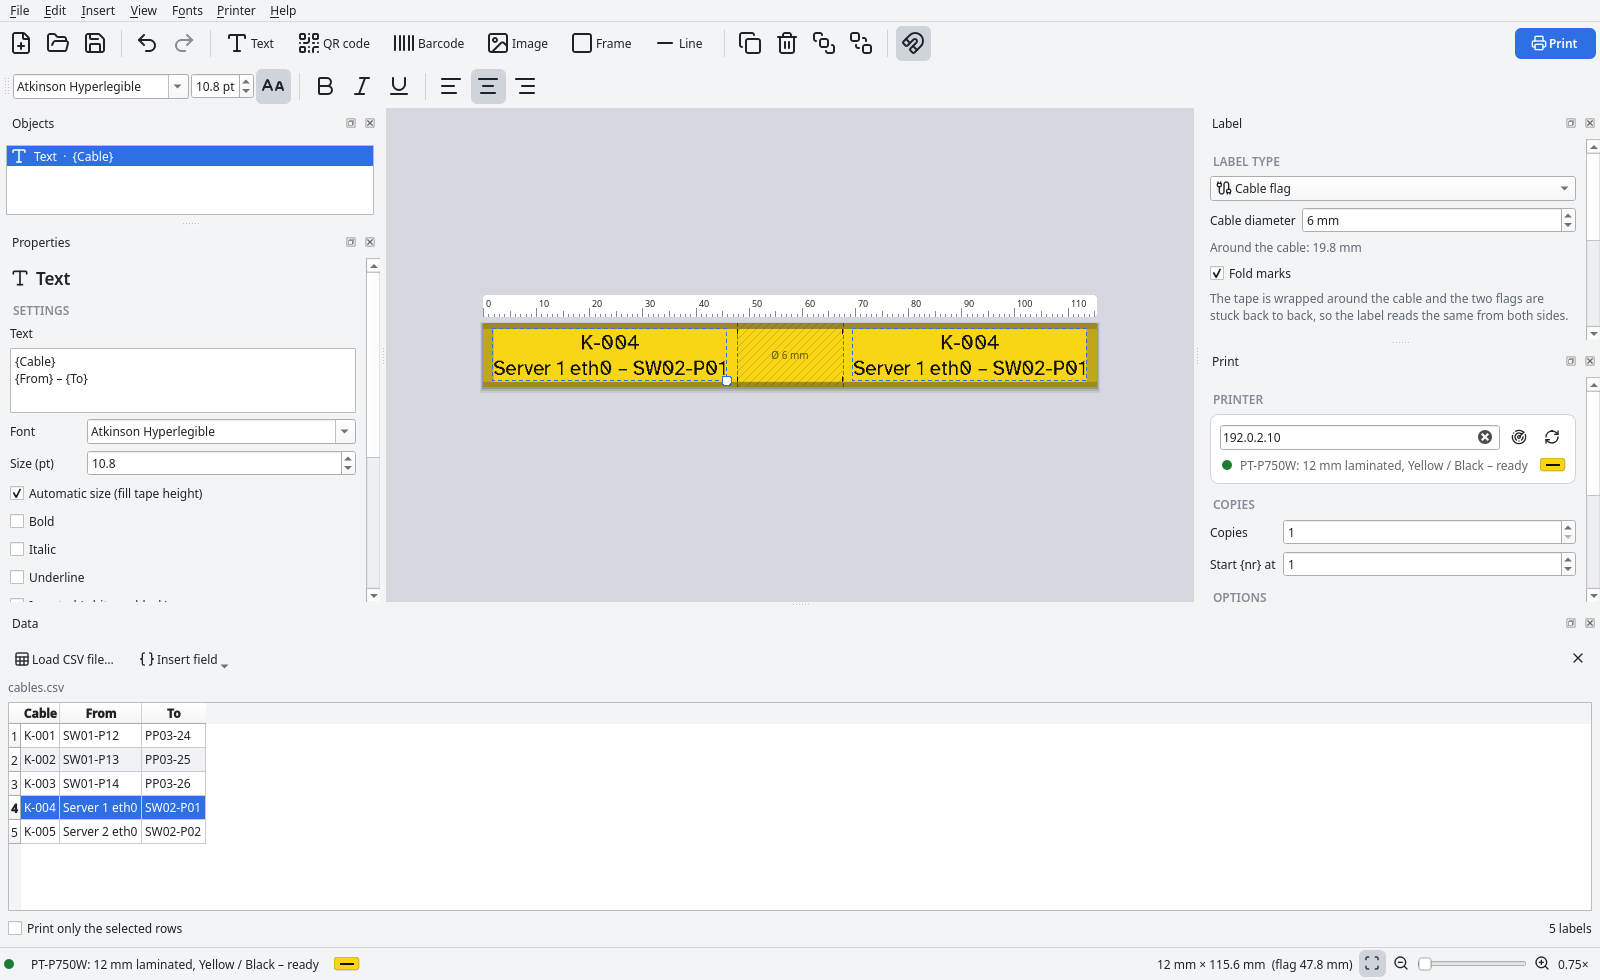
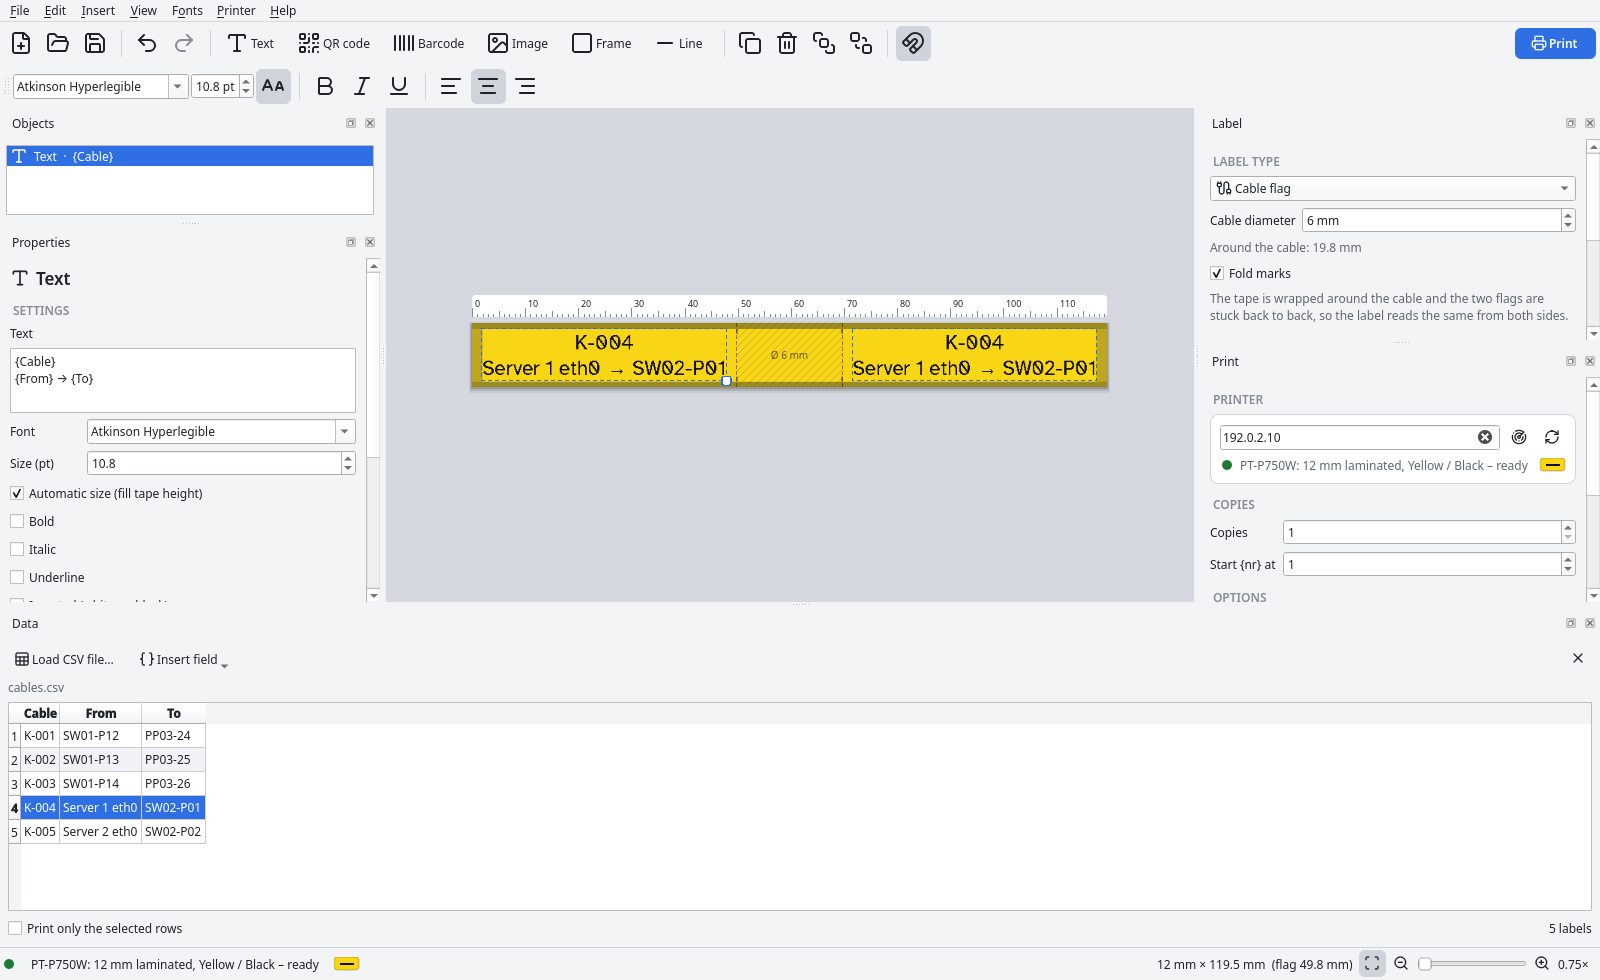
Fallback fonts for characters missing in the chosen font
Text is drawn run by run: characters without a glyph in the chosen font come
from the first installed font that has them (wide-coverage fonts first, color
emoji excluded), in the same weight, on the same baseline. Glyph checks and the
fallback choice are cached and reset when fonts are added. A warning names
characters that no installed font can draw.

Changed region(s): [[0.2812, 0.3061, 0.7188, 0.398], [0.0312, 0.3673, 0.0625, 0.398]]

diff --git a/src/ptlabel/fallback.py b/src/ptlabel/fallback.py
@@ -1,0 +1,122 @@
+"""Fallback fonts for characters that the chosen font does not contain.
+
+Text is split into runs: every character uses the chosen font if it has a glyph for it, otherwise
+the first font with a glyph – preferring fonts with a large character set – so that arrows, check
+marks, Greek or CJK characters print instead of empty boxes.
+"""
+
+from __future__ import annotations
+
+import threading
+import unicodedata
+from functools import lru_cache
+
+from PIL import ImageFont
+
+from . import fonts
+from .fonts import Face
+
+PROBE_PX = 32
+MISSING = "\U0010FFFF"  # never mapped: renders the font's "missing glyph" shape
+# Fonts with a large character set are tried first, in this order, then all others.
+PREFERRED = ["DejaVu Sans", "Noto Sans", "Liberation Sans", "Arial", "Segoe UI", "Cantarell", "Ubuntu",
+             "Noto Sans Math", "Noto Sans Symbols", "Noto Sans Symbols 2", "Segoe UI Symbol", "Symbola",
+             "FreeSans", "FreeSerif", "Arial Unicode MS", "Droid Sans Fallback", "Noto Sans CJK JP",
+             "Microsoft YaHei", "MS Gothic"]
+EXCLUDED = ("Color Emoji",)  # colored glyphs do not print in one color
+
+
+def _shape(font: ImageFont.FreeTypeFont, char: str) -> tuple:
+    mask = font.getmask(char)
+    return mask.size, bytes(mask)
+
+
+@lru_cache(maxsize=None)
+def _missing_shape(path: str, index: int) -> tuple | None:
+    try:
+        return _shape(fonts.load_face(Face(path, index, "", ""), PROBE_PX), MISSING)
+    except Exception:
+        return None
+
+
+@lru_cache(maxsize=65536)
+def _has_glyph(path: str, index: int, char: str) -> bool:
+    missing = _missing_shape(path, index)
+    if missing is None:
+        return False
+    try:
+        return _shape(fonts.load_face(Face(path, index, "", ""), PROBE_PX), char) != missing
+    except Exception:
+        return False
+
+
+def has_glyph(face: Face, char: str) -> bool:
+    if char.isspace() or unicodedata.category(char) in ("Cc", "Cf"):
+        return True  # nothing to draw
+    return _has_glyph(face.path, face.index, char)
+
+
+class FallbackFinder:
+    """Finds, and remembers per character, the first font family that has a glyph."""
+
+    def __init__(self, registry: fonts.FontRegistry):
+        self.registry = registry
+        self._lock = threading.Lock()
+        self._generation = -1
+        self._families: dict[str, str | None] = {}
+
+    def _candidates(self) -> list[str]:
+        names = self.registry.families(include_all=True)
+        names = [n for n in names if not any(word in n for word in EXCLUDED)]
+        preferred = [p for p in PREFERRED if p in names]
+        return preferred + [n for n in names if n not in preferred]
+
+    def family_for(self, char: str) -> str | None:
+        with self._lock:
+            if self._generation != self.registry.generation:
+                self._families, self._generation = {}, self.registry.generation
+            if char not in self._families:
+                self._families[char] = next(
+                    (name for name in self._candidates()
+                     if has_glyph(self.registry.resolve(name, False, False), char)), None)
+            return self._families[char]
+
+    def face_for(self, char: str, bold: bool, italic: bool) -> Face | None:
+        family = self.family_for(char)
+        if family is None:
+            return None
+        face = self.registry.resolve(family, bold, italic)
+        return face if face is not None and has_glyph(face, char) else self.registry.resolve(family, False, False)
+
+
+FINDER = FallbackFinder(fonts.REGISTRY)
+
+
+def runs(text: str, family: str, size_px: int, bold: bool = False, italic: bool = False):
+    """[(font, needs_faux_bold, text), …] that together draw ``text``."""
+    primary = fonts.REGISTRY.resolve(family, bold, italic)
+    if primary is None:  # no fonts installed at all
+        font, faux = fonts.get_font(family, size_px, bold, italic)
+        return [(font, faux, text)]
+    result: list[list] = []
+    for char in text:
+        face = primary
+        if not has_glyph(primary, char):
+            face = FINDER.face_for(char, bold, italic) or primary  # nothing has it: keep the box
+        if result and result[-1][0] == face:
+            result[-1][1] += char
+        else:
+            result.append([face, char])
+    return [(fonts.load_face(face, size_px), bold and not face.is_bold, chunk) for face, chunk in result]
+
+
+def missing(text: str, family: str, bold: bool = False, italic: bool = False) -> list[str]:
+    """Characters of ``text`` that no installed font can draw."""
+    primary = fonts.REGISTRY.resolve(family, bold, italic)
+    if primary is None:
+        return []
+    seen = []
+    for char in dict.fromkeys(text):
+        if not has_glyph(primary, char) and FINDER.family_for(char) is None:
+            seen.append(char)
+    return seen

diff --git a/src/ptlabel/render.py b/src/ptlabel/render.py
@@ -12,7 +12,7 @@ from functools import lru_cache
 import segno
 from PIL import Image, ImageDraw, ImageOps
 
-from . import barcodes, fonts, layouts
+from . import barcodes, fallback, fonts, layouts
 from .i18n import tr
 from .model import (BarcodeObject, FrameObject, ImageObject, LabelDocument, LabelObject, LineObject,
                     QRCodeObject, TextObject, expand)
@@ -175,21 +175,23 @@ def _render_object(obj: LabelObject, scale: float, ctx: _Ctx):
 # --- text -------------------------------------------------------------------
 
 def _text_block(obj: TextObject, text: str, size_px: int) -> Image.Image:
-    font, faux_bold = fonts.get_font(obj.font, size_px, obj.bold, obj.italic)
+    font, _ = fonts.get_font(obj.font, size_px, obj.bold, obj.italic)
     lines = text.split("\n")
+    # characters missing in the chosen font come from a fallback font, run by run
+    line_runs = [fallback.runs(line, obj.font, size_px, obj.bold, obj.italic) for line in lines]
     ascent, descent = font.getmetrics()
     line_h = ascent + descent
     pitch = max(1, round(line_h * obj.line_spacing))
-    widths = [font.getlength(line) for line in lines]
+    widths = [sum(f.getlength(chunk) for f, _, chunk in runs) for runs in line_runs]
     width = math.ceil(max(widths, default=0))
     height = pitch * (len(lines) - 1) + line_h
     pad = math.ceil(size_px * 0.5)
-    stroke = max(1, round(size_px / 28)) if faux_bold else 0
+    stroke = max(1, round(size_px / 28))
 
     img = Image.new("L", (width + 2 * pad, height + 2 * pad), 0)
     draw = ImageDraw.Draw(img)
     draw.fontmode = "1"  # crisp, hinted glyphs for the 180 dpi head
-    for i, (line, w) in enumerate(zip(lines, widths)):
+    for i, (line, runs, w) in enumerate(zip(lines, line_runs, widths)):
         if obj.align == "center":
             x = pad + (width - w) / 2
         elif obj.align == "right":
@@ -197,7 +199,11 @@ def _text_block(obj: TextObject, text: str, size_px: int) -> Image.Image:
         else:
             x = pad
         y = pad + i * pitch
-        draw.text((x, y), line, font=font, fill=255, anchor="la", stroke_width=stroke)
+        run_x = x
+        for run_font, faux_bold, chunk in runs:  # all runs share the baseline of the chosen font
+            draw.text((run_x, y + ascent), chunk, font=run_font, fill=255, anchor="ls",
+                      stroke_width=stroke if faux_bold else 0)
+            run_x += run_font.getlength(chunk)
         if obj.underline and line:
             thickness = max(1, round(size_px / 16))
             uy = y + ascent + max(1, round(descent / 3))
@@ -215,6 +221,9 @@ def _text_block(obj: TextObject, text: str, size_px: int) -> Image.Image:
 
 def _render_text(obj: TextObject, scale: float, ctx: _Ctx):
     text = ctx.expand(obj.text)
+    unknown = fallback.missing(text, obj.font, obj.bold, obj.italic)
+    if unknown:
+        ctx.warnings.append(tr("No installed font has these characters: {chars}").format(chars=" ".join(unknown)))
     if obj.auto_size:
         # extent across the tape grows linearly with the font size: measure once, then correct
         def extent(img: Image.Image) -> int:

diff --git a/tests/test_fallback.py b/tests/test_fallback.py
@@ -1,0 +1,45 @@
+import unittest
+
+from ptlabel import fallback, fonts
+from ptlabel.model import LabelDocument, TextObject
+from ptlabel.render import render
+
+NOWHERE = "\U000F0001"  # private use: no font has it
+
+
+class FallbackTest(unittest.TestCase):
+    def setUp(self):
+        fonts.REGISTRY.ensure_loaded()
+
+    def test_glyph_detection(self):
+        face = fonts.REGISTRY.resolve("Barlow Condensed", False, False)
+        self.assertEqual(face.family, "Barlow Condensed")
+        self.assertTrue(fallback.has_glyph(face, "A"))
+        self.assertTrue(fallback.has_glyph(face, " "))
+        self.assertFalse(fallback.has_glyph(face, "→"))  # not in the latin subset
+
+    def test_missing_characters_come_from_another_font(self):
+        if fallback.FINDER.family_for("→") is None:
+            self.skipTest("no installed font has an arrow")
+        runs = fallback.runs("A → B", "Barlow Condensed", 40)
+        self.assertEqual([chunk for _, _, chunk in runs], ["A ", "→", " B"])
+        self.assertNotEqual(runs[1][0].getname()[0], "Barlow Condensed")
+        self.assertEqual(runs[0][0].getname()[0], "Barlow Condensed")
+
+    def test_text_wider_with_fallback_and_warning_for_unknown_characters(self):
+        doc = LabelDocument()
+        doc.objects.append(TextObject(text=f"A{NOWHERE}", font="Barlow Condensed"))
+        result = render(doc)
+        self.assertTrue(any(NOWHERE in w for w in result.warnings))
+        self.assertEqual(fallback.missing("Ä€", "Barlow Condensed"), [])
+
+    def test_cache_follows_font_changes(self):
+        fallback.FINDER.family_for("A")
+        fonts.REGISTRY.reload()  # e.g. fonts were added: the next lookup starts afresh
+        fallback.FINDER.family_for("B")
+        self.assertNotIn("A", fallback.FINDER._families)
+        self.assertIn("B", fallback.FINDER._families)
+
+
+if __name__ == "__main__":
+    unittest.main()

diff --git a/src/ptlabel/fonts.py b/src/ptlabel/fonts.py
@@ -111,6 +111,7 @@ class FontRegistry:
         self._lookup: dict[str, str] = {}
         self._lock = threading.Lock()
         self._loaded = False
+        self.generation = 0  # counts (re)loads, so caches built on the font list can notice changes
 
     def ensure_loaded(self) -> None:
         with self._lock:
@@ -152,6 +153,7 @@ class FontRegistry:
                         families.setdefault(family, []).append(Face(path, index, family, style, latin))
         self._families = families
         self._lookup = {name.casefold(): name for name in families}
+        self.generation += 1
         if self.cache_file and new_cache != cache:
             try:
                 self.cache_file.parent.mkdir(parents=True, exist_ok=True)
@@ -221,6 +223,10 @@ REGISTRY = FontRegistry(config.config_dir() / "fontcache.json")
 @lru_cache(maxsize=256)
 def _load(path: str, index: int, size: int) -> ImageFont.FreeTypeFont:
     return ImageFont.truetype(path, size, index=index)
+
+
+def load_face(face: Face, size_px: int) -> ImageFont.FreeTypeFont:
+    return _load(face.path, face.index, max(1, int(size_px)))
 
 
 def get_font(family: str, size_px: int, bold: bool = False, italic: bool = False):

diff --git a/tools/make_screenshots.py b/tools/make_screenshots.py
@@ -127,7 +127,7 @@ def main() -> int:
         document.set_data_file(str(csv_file))
         text = document.doc.objects[0]
         document.select(text)
-        document.set_property(text, "text", "{Cable}\n{From} – {To}")
+        document.set_property(text, "text", "{Cable}\n{From} → {To}")
         document.set_property(text, "font", FONT)
         window.data_dock.show()
         window.data_panel.table.setCurrentCell(3, 0)

diff --git a/README.md b/README.md
@@ -152,6 +152,11 @@ Fonts that cannot print Latin text are hidden from the font lists: fonts for oth
 Hebrew, Thai, …) that would only print empty boxes, and symbol fonts such as Dingbats. PT-Label tests
 every font once when it scans the font folders. “Fonts → Show all fonts” lists them anyway.
 
+Characters that the chosen font does not contain – arrows, check marks, Greek, CJK, … – are taken
+automatically from another installed font that has them (fonts with a large character set such as
+DejaVu Sans or Noto Sans first), in the same weight and on the same baseline. If no installed font
+has a character, the status bar names it.
+
 The “Fonts” menu adds more; every font list shows the fonts in their own typeface:
 
 - **Add font files…** copies `.ttf`/`.otf` files into PT-Label's own font folder, without installing
